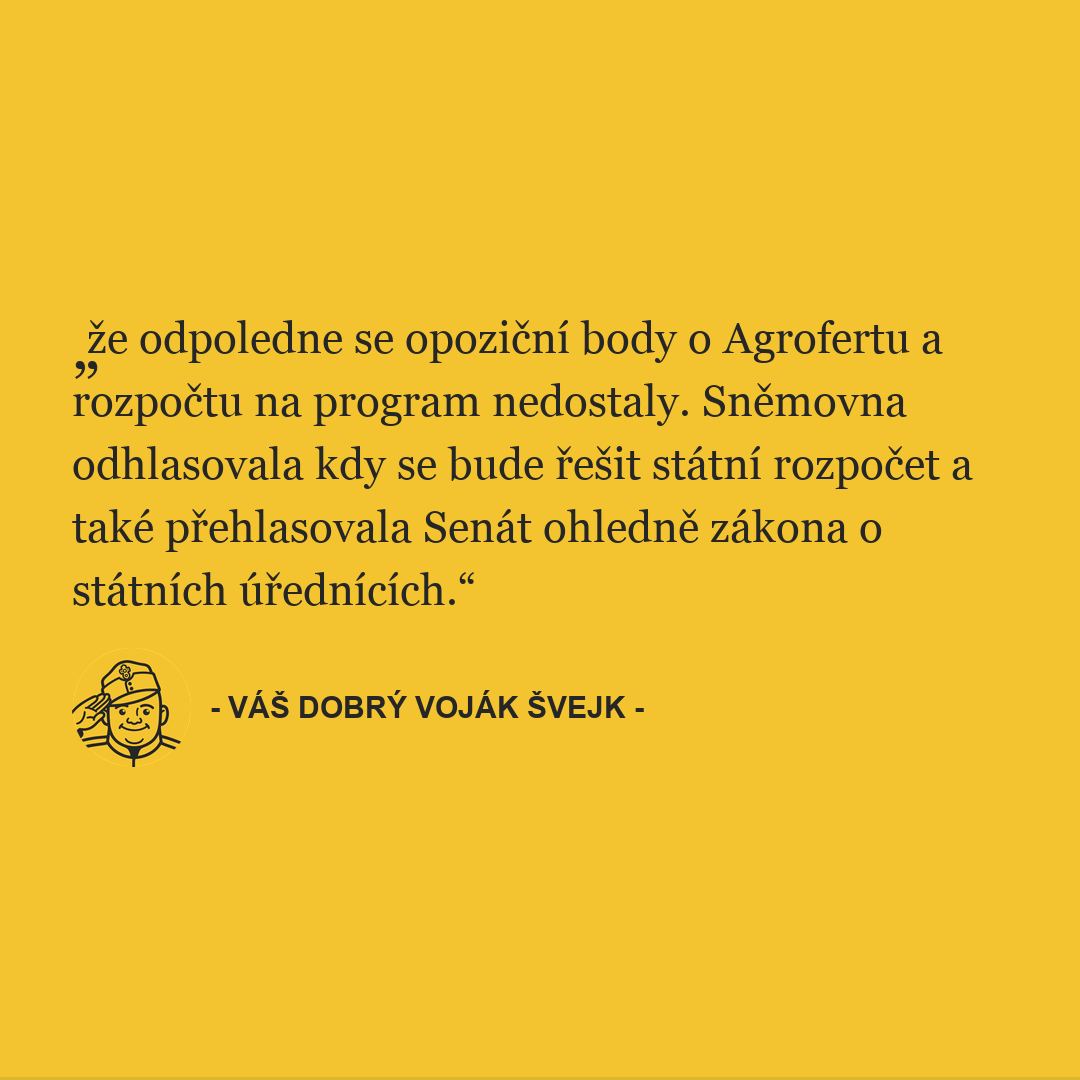
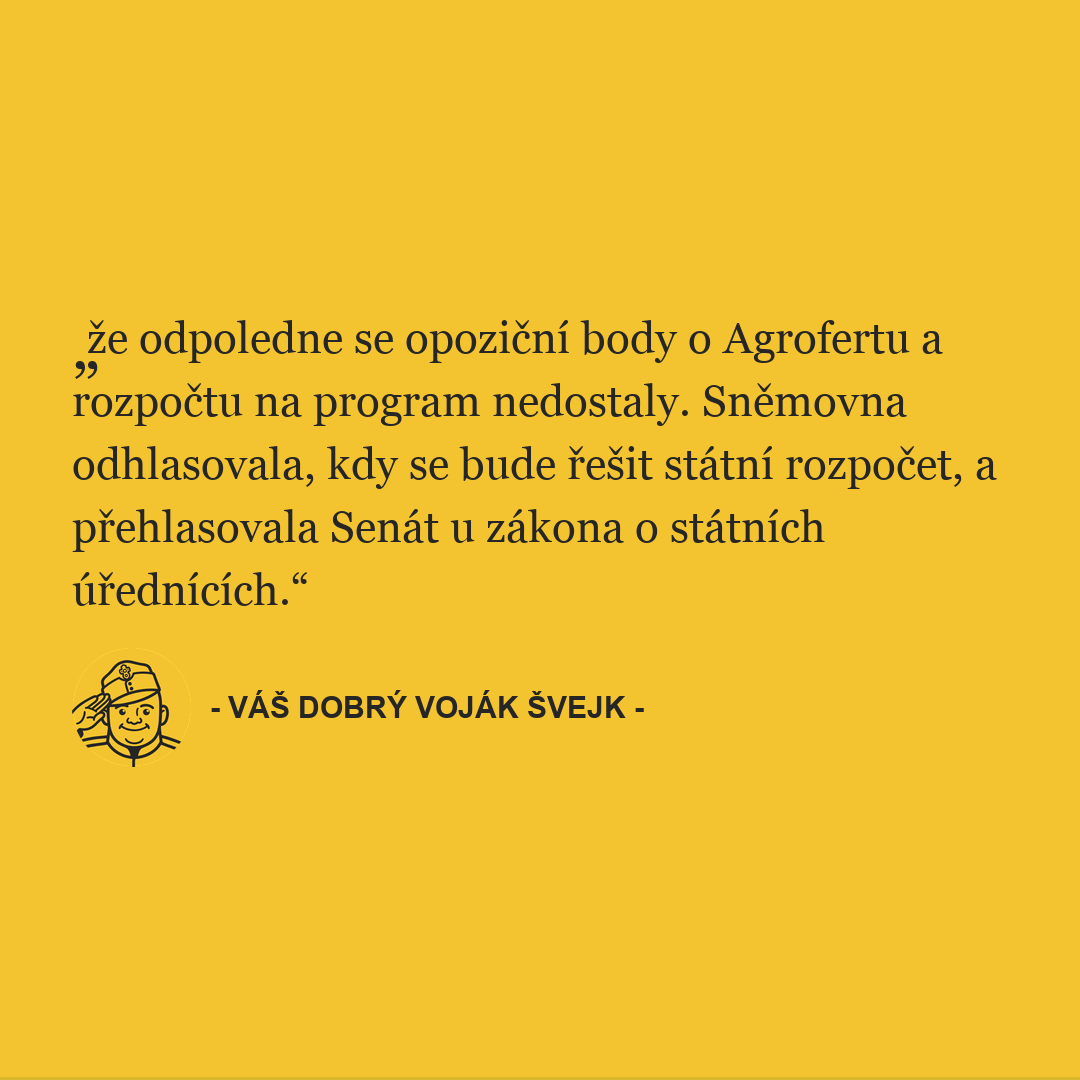
Titulek 8. 9.: Sněmovna přehlasovala Senát u úřednického zákona.

Changed region(s): [[0.0611, 0.3972, 0.9167, 0.5806]]

diff --git a/processed/published/2025/30/08.09.2026/out/2026-09-08.html b/processed/published/2025/30/08.09.2026/out/2026-09-08.html
@@ -61,7 +61,7 @@
 
 
 <meta name="twitter:card" content="summary_large_image" />
-<script type="application/ld+json">{"@context": "https://schema.org", "@id": "https://poslusnehlasim.cz/vydani/2026-09-08/", "@type": "NewsArticle", "about": [{"@type": "Thing", "name": "Poslaneck\u00e1 sn\u011bmovna Parlamentu \u010cesk\u00e9 republiky"}], "alternativeHeadline": "Poslu\u0161n\u011b hl\u00e1s\u00edm \u00b7 8. z\u00e1\u0159\u00ed 2026", "articleBody": "Co se do po\u0159adu neve\u0161lo. Opozice cht\u011bla na program hned st\u0159et z\u00e1jm\u016f kolem Agrofertu a schodek rozpo\u010dtu skoro \u010dty\u0159i sta miliard. H\u0159ib (Pir\u00e1ti) citoval Evropskou komisi, \u017ee sv\u011b\u0159ensk\u00fd fond nesta\u010d\u00ed. Jakob (TOP 09) mluvil o schodku t\u0159i sta osmdes\u00e1t dev\u011bt miliard. Vl\u00e1dn\u00ed v\u011bt\u0161ina body do po\u0159adu nepustila. Po\u0159ad ur\u010duje, o \u010dem se ten den mluv\u00ed. Opozice cht\u011bla Agrofert, schodek a dal\u0161\u00ed kauzy, ale ty body se na program nedostaly. Do programu z\u016fstaly harmonogram st\u00e1tn\u00edho rozpo\u010dtu a z\u00e1kon o st\u00e1tn\u00edch zam\u011bstnanc\u00edch po zam\u00edtnut\u00ed v Sen\u00e1tu. Sen\u00e1t \u0159ekl ne,\n\u00fa\u0159ednick\u00fd z\u00e1kon ano. Sen\u00e1t v srpnu zam\u00edtl z\u00e1kon o st\u00e1tn\u00edch zam\u011bstnanc\u00edch. Ve\u010der ho Sn\u011bmovna vr\u00e1tila do hry. Jde o to, jak snadno p\u016fjde m\u011bnit lidi na \u00fa\u0159adech a jestli \u00fa\u0159edn\u00edk z\u016fstane pod ve\u0159ejn\u00fdmi pravidly, nebo sp\u00ed\u0161 pod pracovn\u00edm pr\u00e1vem jako v firm\u011b. Sen\u00e1t z\u00e1kon o st\u00e1tn\u00edch \u00fa\u0159edn\u00edc\u00edch zam\u00edtl. Sn\u011bmovna ho i souvisej\u00edc\u00ed novelu p\u0159ehlasovala. M\u011bn\u00ed se pr\u00e1vn\u00ed re\u017eim st\u00e1tn\u00edch zam\u011bstnanc\u016f a otev\u00edr\u00e1 se snaz\u0161\u00ed person\u00e1ln\u00ed v\u00fdm\u011bna na \u00fa\u0159adech. Kalend\u00e1\u0159 na rozpo\u010det. Po h\u00e1dce o po\u0159adu p\u0159i\u0161el klidn\u011bj\u0161\u00ed bod. Sn\u011bmovna si odsouhlasila, kdy bude projedn\u00e1vat st\u00e1tn\u00ed rozpo\u010det na rok 2027. O \u010d\u00edslech se je\u0161t\u011b nehlasovalo, jen o term\u00ednech. Sn\u011bmovna schv\u00e1lila \u010dasov\u00fd pl\u00e1n projedn\u00e1n\u00ed st\u00e1tn\u00edho rozpo\u010dtu na rok 2027: zpravodajov\u00e9 v\u00fdbor\u016f se maj\u00ed sej\u00edt 11. listopadu a druh\u00e9 kolo je pl\u00e1novan\u00e9 na 25. listopadu. Ne\u0161lo o v\u00fd\u0161i schodku, jen o to, kdy se o rozpo\u010dtu bude jednat. Poslu\u0161n\u011b hl\u00e1s\u00edm, \u017ee odpoledne se opozi\u010dn\u00ed body o Agrofertu a rozpo\u010dtu na program nedostaly. Sn\u011bmovna odhlasovala kdy se bude \u0159e\u0161it st\u00e1tn\u00ed rozpo\u010det a tak\u00e9 p\u0159ehlasovala Sen\u00e1t ohledn\u011b z\u00e1kona o st\u00e1tn\u00edch \u00fa\u0159edn\u00edc\u00edch.", "articleSection": "Poslaneck\u00e1 sn\u011bmovna", "author": {"@id": "https://poslusnehlasim.cz/#org", "@type": "Organization"}, "dateModified": "2026-09-09T12:27:10Z", "datePublished": "2026-09-08T00:00:00+02:00", "description": "Co se do po\u0159adu neve\u0161lo. Denn\u00ed p\u0159ehled z Poslaneck\u00e9 sn\u011bmovny, 8. 9. 2026.", "hasPart": [{"@id": "https://poslusnehlasim.cz/vydani/2026-09-08/#debata-porad-s30-8-zari", "@type": "NewsArticle", "articleBody": "Opozice cht\u011bla na program hned st\u0159et z\u00e1jm\u016f kolem Agrofertu a schodek rozpo\u010dtu skoro \u010dty\u0159i sta miliard. H\u0159ib (Pir\u00e1ti) citoval Evropskou komisi, \u017ee sv\u011b\u0159ensk\u00fd fond nesta\u010d\u00ed. Jakob (TOP 09) mluvil o schodku t\u0159i sta osmdes\u00e1t dev\u011bt miliard. Vl\u00e1dn\u00ed v\u011bt\u0161ina body do po\u0159adu nepustila. Po\u0159ad ur\u010duje, o \u010dem se ten den mluv\u00ed. Opozice cht\u011bla Agrofert, schodek a dal\u0161\u00ed kauzy, ale ty body se na program nedostaly. Do programu z\u016fstaly harmonogram st\u00e1tn\u00edho rozpo\u010dtu a z\u00e1kon o st\u00e1tn\u00edch zam\u011bstnanc\u00edch po zam\u00edtnut\u00ed v Sen\u00e1tu.", "headline": "Co se do po\u0159adu neve\u0161lo", "position": 1, "url": "https://poslusnehlasim.cz/vydani/2026-09-08/#debata-porad-s30-8-zari"}, {"@id": "https://poslusnehlasim.cz/vydani/2026-09-08/#navrh-zakona-o-statnich-zamestnancich", "@type": "NewsArticle", "articleBody": "Sen\u00e1t v srpnu zam\u00edtl z\u00e1kon o st\u00e1tn\u00edch zam\u011bstnanc\u00edch. Ve\u010der ho Sn\u011bmovna vr\u00e1tila do hry. Jde o to, jak snadno p\u016fjde m\u011bnit lidi na \u00fa\u0159adech a jestli \u00fa\u0159edn\u00edk z\u016fstane pod ve\u0159ejn\u00fdmi pravidly, nebo sp\u00ed\u0161 pod pracovn\u00edm pr\u00e1vem jako v firm\u011b. Sen\u00e1t z\u00e1kon o st\u00e1tn\u00edch \u00fa\u0159edn\u00edc\u00edch zam\u00edtl. Sn\u011bmovna ho i souvisej\u00edc\u00ed novelu p\u0159ehlasovala. M\u011bn\u00ed se pr\u00e1vn\u00ed re\u017eim st\u00e1tn\u00edch zam\u011bstnanc\u016f a otev\u00edr\u00e1 se snaz\u0161\u00ed person\u00e1ln\u00ed v\u00fdm\u011bna na \u00fa\u0159adech.", "headline": "Sen\u00e1t \u0159ekl ne,\n\u00fa\u0159ednick\u00fd z\u00e1kon ano", "position": 2, "url": "https://poslusnehlasim.cz/vydani/2026-09-08/#navrh-zakona-o-statnich-zamestnancich"}, {"@id": "https://poslusnehlasim.cz/vydani/2026-09-08/#navrh-casoveho-harmonogramu-projednavani-vladnih", "@type": "NewsArticle", "articleBody": "Po h\u00e1dce o po\u0159adu p\u0159i\u0161el klidn\u011bj\u0161\u00ed bod. Sn\u011bmovna si odsouhlasila, kdy bude projedn\u00e1vat st\u00e1tn\u00ed rozpo\u010det na rok 2027. O \u010d\u00edslech se je\u0161t\u011b nehlasovalo, jen o term\u00ednech. Sn\u011bmovna schv\u00e1lila \u010dasov\u00fd pl\u00e1n projedn\u00e1n\u00ed st\u00e1tn\u00edho rozpo\u010dtu na rok 2027: zpravodajov\u00e9 v\u00fdbor\u016f se maj\u00ed sej\u00edt 11. listopadu a druh\u00e9 kolo je pl\u00e1novan\u00e9 na 25. listopadu. Ne\u0161lo o v\u00fd\u0161i schodku, jen o to, kdy se o rozpo\u010dtu bude jednat.", "headline": "Kalend\u00e1\u0159 na rozpo\u010det", "position": 3, "url": "https://poslusnehlasim.cz/vydani/2026-09-08/#navrh-casoveho-harmonogramu-projednavani-vladnih"}], "headline": "Co se do po\u0159adu neve\u0161lo", "image": ["https://poslusnehlasim.cz/og/2026-09-08.png?v=hero-card-4"], "inLanguage": "cs", "isAccessibleForFree": true, "isPartOf": {"@type": "WebSite", "name": "Poslu\u0161n\u011b hl\u00e1s\u00edm, den\u00edk Poslaneck\u00e9 sn\u011bmovny", "url": "https://poslusnehlasim.cz/"}, "mainEntityOfPage": "https://poslusnehlasim.cz/vydani/2026-09-08/", "publisher": {"@id": "https://poslusnehlasim.cz/#org"}, "url": "https://poslusnehlasim.cz/vydani/2026-09-08/"}</script>
+<script type="application/ld+json">{"@context": "https://schema.org", "@id": "https://poslusnehlasim.cz/vydani/2026-09-08/", "@type": "NewsArticle", "about": [{"@type": "Thing", "name": "Poslaneck\u00e1 sn\u011bmovna Parlamentu \u010cesk\u00e9 republiky"}], "alternativeHeadline": "Poslu\u0161n\u011b hl\u00e1s\u00edm \u00b7 8. z\u00e1\u0159\u00ed 2026", "articleBody": "Co se do po\u0159adu neve\u0161lo. Opozice cht\u011bla na program hned st\u0159et z\u00e1jm\u016f kolem Agrofertu a schodek rozpo\u010dtu skoro \u010dty\u0159i sta miliard. H\u0159ib (Pir\u00e1ti) citoval Evropskou komisi, \u017ee sv\u011b\u0159ensk\u00fd fond nesta\u010d\u00ed. Jakob (TOP 09) mluvil o schodku t\u0159i sta osmdes\u00e1t dev\u011bt miliard. Vl\u00e1dn\u00ed v\u011bt\u0161ina body do po\u0159adu nepustila. Po\u0159ad ur\u010duje, o \u010dem se ten den mluv\u00ed. Opozice cht\u011bla Agrofert, schodek a dal\u0161\u00ed kauzy, ale ty body se na program nedostaly. Do programu z\u016fstaly harmonogram st\u00e1tn\u00edho rozpo\u010dtu a z\u00e1kon o st\u00e1tn\u00edch zam\u011bstnanc\u00edch po zam\u00edtnut\u00ed v Sen\u00e1tu. Sn\u011bmovna p\u0159ehlasovala Sen\u00e1t u \u00fa\u0159ednick\u00e9ho z\u00e1kona. Sen\u00e1t v srpnu zam\u00edtl z\u00e1kon o st\u00e1tn\u00edch zam\u011bstnanc\u00edch. Ve\u010der ho Sn\u011bmovna vr\u00e1tila do hry. Jde o to, jak snadno p\u016fjde m\u011bnit lidi na \u00fa\u0159adech a jestli \u00fa\u0159edn\u00edk z\u016fstane pod ve\u0159ejn\u00fdmi pravidly, nebo sp\u00ed\u0161 pod pracovn\u00edm pr\u00e1vem jako v firm\u011b. Sen\u00e1t z\u00e1kon o st\u00e1tn\u00edch \u00fa\u0159edn\u00edc\u00edch zam\u00edtl. Sn\u011bmovna ho i souvisej\u00edc\u00ed novelu p\u0159ehlasovala. M\u011bn\u00ed se pr\u00e1vn\u00ed re\u017eim st\u00e1tn\u00edch zam\u011bstnanc\u016f a otev\u00edr\u00e1 se snaz\u0161\u00ed person\u00e1ln\u00ed v\u00fdm\u011bna na \u00fa\u0159adech. Kalend\u00e1\u0159 na rozpo\u010det. Po h\u00e1dce o po\u0159adu p\u0159i\u0161el klidn\u011bj\u0161\u00ed bod. Sn\u011bmovna si odsouhlasila, kdy bude projedn\u00e1vat st\u00e1tn\u00ed rozpo\u010det na rok 2027. O \u010d\u00edslech se je\u0161t\u011b nehlasovalo, jen o term\u00ednech. Sn\u011bmovna schv\u00e1lila \u010dasov\u00fd pl\u00e1n projedn\u00e1n\u00ed st\u00e1tn\u00edho rozpo\u010dtu na rok 2027: zpravodajov\u00e9 v\u00fdbor\u016f se maj\u00ed sej\u00edt 11. listopadu a druh\u00e9 kolo je pl\u00e1novan\u00e9 na 25. listopadu. Ne\u0161lo o v\u00fd\u0161i schodku, jen o to, kdy se o rozpo\u010dtu bude jednat. Poslu\u0161n\u011b hl\u00e1s\u00edm, \u017ee odpoledne se opozi\u010dn\u00ed body o Agrofertu a rozpo\u010dtu na program nedostaly. Sn\u011bmovna odhlasovala, kdy se bude \u0159e\u0161it st\u00e1tn\u00ed rozpo\u010det, a p\u0159ehlasovala Sen\u00e1t u z\u00e1kona o st\u00e1tn\u00edch \u00fa\u0159edn\u00edc\u00edch.", "articleSection": "Poslaneck\u00e1 sn\u011bmovna", "author": {"@id": "https://poslusnehlasim.cz/#org", "@type": "Organization"}, "dateModified": "2026-09-09T12:29:32Z", "datePublished": "2026-09-08T00:00:00+02:00", "description": "Co se do po\u0159adu neve\u0161lo. Denn\u00ed p\u0159ehled z Poslaneck\u00e9 sn\u011bmovny, 8. 9. 2026.", "hasPart": [{"@id": "https://poslusnehlasim.cz/vydani/2026-09-08/#debata-porad-s30-8-zari", "@type": "NewsArticle", "articleBody": "Opozice cht\u011bla na program hned st\u0159et z\u00e1jm\u016f kolem Agrofertu a schodek rozpo\u010dtu skoro \u010dty\u0159i sta miliard. H\u0159ib (Pir\u00e1ti) citoval Evropskou komisi, \u017ee sv\u011b\u0159ensk\u00fd fond nesta\u010d\u00ed. Jakob (TOP 09) mluvil o schodku t\u0159i sta osmdes\u00e1t dev\u011bt miliard. Vl\u00e1dn\u00ed v\u011bt\u0161ina body do po\u0159adu nepustila. Po\u0159ad ur\u010duje, o \u010dem se ten den mluv\u00ed. Opozice cht\u011bla Agrofert, schodek a dal\u0161\u00ed kauzy, ale ty body se na program nedostaly. Do programu z\u016fstaly harmonogram st\u00e1tn\u00edho rozpo\u010dtu a z\u00e1kon o st\u00e1tn\u00edch zam\u011bstnanc\u00edch po zam\u00edtnut\u00ed v Sen\u00e1tu.", "headline": "Co se do po\u0159adu neve\u0161lo", "position": 1, "url": "https://poslusnehlasim.cz/vydani/2026-09-08/#debata-porad-s30-8-zari"}, {"@id": "https://poslusnehlasim.cz/vydani/2026-09-08/#navrh-zakona-o-statnich-zamestnancich", "@type": "NewsArticle", "articleBody": "Sen\u00e1t v srpnu zam\u00edtl z\u00e1kon o st\u00e1tn\u00edch zam\u011bstnanc\u00edch. Ve\u010der ho Sn\u011bmovna vr\u00e1tila do hry. Jde o to, jak snadno p\u016fjde m\u011bnit lidi na \u00fa\u0159adech a jestli \u00fa\u0159edn\u00edk z\u016fstane pod ve\u0159ejn\u00fdmi pravidly, nebo sp\u00ed\u0161 pod pracovn\u00edm pr\u00e1vem jako v firm\u011b. Sen\u00e1t z\u00e1kon o st\u00e1tn\u00edch \u00fa\u0159edn\u00edc\u00edch zam\u00edtl. Sn\u011bmovna ho i souvisej\u00edc\u00ed novelu p\u0159ehlasovala. M\u011bn\u00ed se pr\u00e1vn\u00ed re\u017eim st\u00e1tn\u00edch zam\u011bstnanc\u016f a otev\u00edr\u00e1 se snaz\u0161\u00ed person\u00e1ln\u00ed v\u00fdm\u011bna na \u00fa\u0159adech.", "headline": "Sn\u011bmovna p\u0159ehlasovala Sen\u00e1t u \u00fa\u0159ednick\u00e9ho z\u00e1kona", "position": 2, "url": "https://poslusnehlasim.cz/vydani/2026-09-08/#navrh-zakona-o-statnich-zamestnancich"}, {"@id": "https://poslusnehlasim.cz/vydani/2026-09-08/#navrh-casoveho-harmonogramu-projednavani-vladnih", "@type": "NewsArticle", "articleBody": "Po h\u00e1dce o po\u0159adu p\u0159i\u0161el klidn\u011bj\u0161\u00ed bod. Sn\u011bmovna si odsouhlasila, kdy bude projedn\u00e1vat st\u00e1tn\u00ed rozpo\u010det na rok 2027. O \u010d\u00edslech se je\u0161t\u011b nehlasovalo, jen o term\u00ednech. Sn\u011bmovna schv\u00e1lila \u010dasov\u00fd pl\u00e1n projedn\u00e1n\u00ed st\u00e1tn\u00edho rozpo\u010dtu na rok 2027: zpravodajov\u00e9 v\u00fdbor\u016f se maj\u00ed sej\u00edt 11. listopadu a druh\u00e9 kolo je pl\u00e1novan\u00e9 na 25. listopadu. Ne\u0161lo o v\u00fd\u0161i schodku, jen o to, kdy se o rozpo\u010dtu bude jednat.", "headline": "Kalend\u00e1\u0159 na rozpo\u010det", "position": 3, "url": "https://poslusnehlasim.cz/vydani/2026-09-08/#navrh-casoveho-harmonogramu-projednavani-vladnih"}], "headline": "Co se do po\u0159adu neve\u0161lo", "image": ["https://poslusnehlasim.cz/og/2026-09-08.png?v=hero-card-4"], "inLanguage": "cs", "isAccessibleForFree": true, "isPartOf": {"@type": "WebSite", "name": "Poslu\u0161n\u011b hl\u00e1s\u00edm, den\u00edk Poslaneck\u00e9 sn\u011bmovny", "url": "https://poslusnehlasim.cz/"}, "mainEntityOfPage": "https://poslusnehlasim.cz/vydani/2026-09-08/", "publisher": {"@id": "https://poslusnehlasim.cz/#org"}, "url": "https://poslusnehlasim.cz/vydani/2026-09-08/"}</script>
 
 
 <script type="application/ld+json">{"@context": "https://schema.org", "@type": "BreadcrumbList", "itemListElement": [{"@type": "ListItem", "item": "https://poslusnehlasim.cz/", "name": "Poslu\u0161n\u011b hl\u00e1s\u00edm", "position": 1}, {"@type": "ListItem", "item": "https://poslusnehlasim.cz/vydani/", "name": "Archiv vyd\u00e1n\u00ed", "position": 2}, {"@type": "ListItem", "name": "8. 9. 2026", "position": 3}]}</script>
@@ -2975,7 +2975,7 @@ a.potvrzeno-cta:hover{filter:brightness(1.05);border-bottom:none}
 <section class="card card-yellow card-tilt-l card-hero" id="card-hero" aria-label="Švejkovo hlášení">
   <div class="card-hero-inner">
     <p class="card-hero-text">
-      <span class="q-quote"><span class="q-mark">„</span><strong><em>Poslušně hlásím,</em></strong> že odpoledne se opoziční body o Agrofertu a rozpočtu na program nedostaly. Sněmovna odhlasovala kdy se bude řešit státní rozpočet a také přehlasovala Senát ohledně zákona o státních úřednících.<span class="q-mark">“</span></span>
+      <span class="q-quote"><span class="q-mark">„</span><strong><em>Poslušně hlásím,</em></strong> že odpoledne se opoziční body o Agrofertu a rozpočtu na program nedostaly. Sněmovna odhlasovala, kdy se bude řešit státní rozpočet, a přehlasovala Senát u zákona o státních úřednících.<span class="q-mark">“</span></span>
     </p>
     <div class="card-hero-foot">
       
@@ -2985,7 +2985,7 @@ a.potvrzeno-cta:hover{filter:brightness(1.05);border-bottom:none}
       
       <div class="card-sign">- Váš dobrý voják Švejk -</div>
       <div class="card-share">
-        <button type="button" class="share-btn" data-share-card="Švejkovo hlášení" data-share-id="card-hero" data-share-text="„Poslušně hlásím, že odpoledne se opoziční body o Agrofertu a rozpočtu na program nedostaly. Sněmovna odhlasovala kdy se bude řešit státní rozpočet a také přehlasovala Senát ohledně zákona o státních úřednících.“\n\n- Váš dobrý voják Švejk -\n\nhttps://poslusnehlasim.cz/vydani/2026-09-08/" title="Poslat hlášení" aria-label="Sdílet Švejkovo hlášení">
+        <button type="button" class="share-btn" data-share-card="Švejkovo hlášení" data-share-id="card-hero" data-share-text="„Poslušně hlásím, že odpoledne se opoziční body o Agrofertu a rozpočtu na program nedostaly. Sněmovna odhlasovala, kdy se bude řešit státní rozpočet, a přehlasovala Senát u zákona o státních úřednících.“\n\n- Váš dobrý voják Švejk -\n\nhttps://poslusnehlasim.cz/vydani/2026-09-08/" title="Poslat hlášení" aria-label="Sdílet Švejkovo hlášení">
           <svg viewBox="0 0 24 24" fill="none" stroke="currentColor" stroke-width="2" stroke-linecap="round" aria-hidden="true"><circle cx="18" cy="5" r="3"/><circle cx="6" cy="12" r="3"/><circle cx="18" cy="19" r="3"/><line x1="8.6" y1="10.7" x2="15.4" y2="6.3"/><line x1="8.6" y1="13.3" x2="15.4" y2="17.7"/></svg>
         </button>
       </div>
@@ -3135,7 +3135,7 @@ a.potvrzeno-cta:hover{filter:brightness(1.05);border-bottom:none}
   <div class="article-content">
     <header class="article-head">
       <div class="article-num article-num--mobile article-num--schvaleno">02</div>
-      <h2 class="article-title">Senát řekl ne,<br>Úřednický zákon ano</h2>
+      <h2 class="article-title">Sněmovna přehlasovala Senát<br>U úřednického zákona</h2>
       <span class="stamp stamp--mobile schvaleno">Schváleno</span>
     </header>
     <div class="article-body">
@@ -3183,7 +3183,7 @@ a.potvrzeno-cta:hover{filter:brightness(1.05);border-bottom:none}
         hidden
         data-slug="navrh-zakona-o-statnich-zamestnancich"
         data-num="2"
-        data-title="Senát řekl ne, Úřednický zákon ano"
+        data-title="Sněmovna přehlasovala Senát U úřednického zákona"
       >Něco nesedí?</button>
       
     </div>

diff --git a/processed/published/2025/30/08.09.2026/out/2026-09-08-steno.html b/processed/published/2025/30/08.09.2026/out/2026-09-08-steno.html
@@ -480,8 +480,7 @@
   </section>
   
   <section class="steno-topic" id="topic-navrh-zakona-o-statnich-zamestnancich">
-    <h2 class="steno-topic-title"><span class="steno-topic-num">02</span> Senát řekl ne,
-úřednický zákon ano</h2>
+    <h2 class="steno-topic-title"><span class="steno-topic-num">02</span> Sněmovna přehlasovala Senát u úřednického zákona</h2>
     
     <article class="steno-passage" id="steno-2025_30_00069-p6">
       <header class="steno-passage-head">

diff --git a/processed/2025-s30/out/noviny-dlouhe/2026-09-08.md b/processed/2025-s30/out/noviny-dlouhe/2026-09-08.md
@@ -40,8 +40,8 @@ Skoro nic z toho, co opozice přinesla, se na program nedostalo. Prošel přesun
 **Hlášení na velitelstvo:** <strong>Pořad určuje, o čem se ten den mluví. Opozice chtěla Agrofert, schodek a další kauzy, ale ty body se na program nedostaly. Do programu zůstaly harmonogram státního rozpočtu a zákon o státních zaměstnancích po zamítnutí v Senátu.</strong>
 
 
-## Senát řekl ne,
-Úřednický zákon ano
+## Sněmovna přehlasovala Senát
+U úřednického zákona
 
 Senát v srpnu zamítl zákon o státních zaměstnancích. Večer ho Sněmovna vrátila do hry. Jde o to, jak snadno půjde měnit lidi na úřadech a jestli úředník zůstane pod veřejnými pravidly, nebo spíš pod pracovním právem jako v firmě.
 
@@ -74,4 +74,4 @@ Po hádce o pořadu přišel klidnější bod. Sněmovna si odsouhlasila, kdy bu
 * Senát zamítl zákon o státních zaměstnancích, Sněmovna ho přehlasovala
 * Stejně dopadla i související novela
 
-**Poslušně hlásím, že odpoledne se opoziční body o Agrofertu a rozpočtu na program nedostaly. Sněmovna odhlasovala kdy se bude řešit státní rozpočet a také přehlasovala Senát ohledně zákona o státních úřednících.**
+**Poslušně hlásím, že odpoledne se opoziční body o Agrofertu a rozpočtu na program nedostaly. Sněmovna odhlasovala, kdy se bude řešit státní rozpočet, a přehlasovala Senát u zákona o státních úřednících.**

diff --git a/processed/published/2025/30/08.09.2026/out/2026-09-08.md b/processed/published/2025/30/08.09.2026/out/2026-09-08.md
@@ -40,8 +40,8 @@ Skoro nic z toho, co opozice přinesla, se na program nedostalo. Prošel přesun
 **Hlášení na velitelstvo:** <strong>Pořad určuje, o čem se ten den mluví. Opozice chtěla Agrofert, schodek a další kauzy, ale ty body se na program nedostaly. Do programu zůstaly harmonogram státního rozpočtu a zákon o státních zaměstnancích po zamítnutí v Senátu.</strong>
 
 
-## Senát řekl ne,
-Úřednický zákon ano
+## Sněmovna přehlasovala Senát
+U úřednického zákona
 
 Senát v srpnu zamítl zákon o státních zaměstnancích. Večer ho Sněmovna vrátila do hry. Jde o to, jak snadno půjde měnit lidi na úřadech a jestli úředník zůstane pod veřejnými pravidly, nebo spíš pod pracovním právem jako v firmě.
 
@@ -74,4 +74,4 @@ Po hádce o pořadu přišel klidnější bod. Sněmovna si odsouhlasila, kdy bu
 * Senát zamítl zákon o státních zaměstnancích, Sněmovna ho přehlasovala
 * Stejně dopadla i související novela
 
-**Poslušně hlásím, že odpoledne se opoziční body o Agrofertu a rozpočtu na program nedostaly. Sněmovna odhlasovala kdy se bude řešit státní rozpočet a také přehlasovala Senát ohledně zákona o státních úřednících.**
+**Poslušně hlásím, že odpoledne se opoziční body o Agrofertu a rozpočtu na program nedostaly. Sněmovna odhlasovala, kdy se bude řešit státní rozpočet, a přehlasovala Senát u zákona o státních úřednících.**
